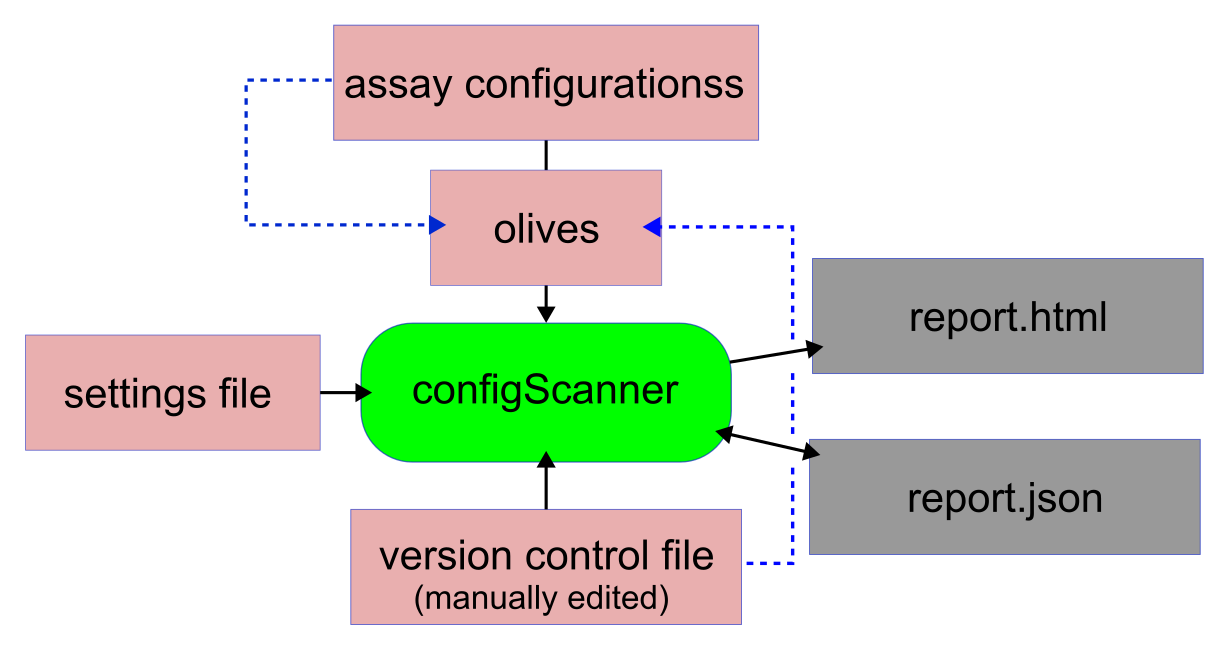
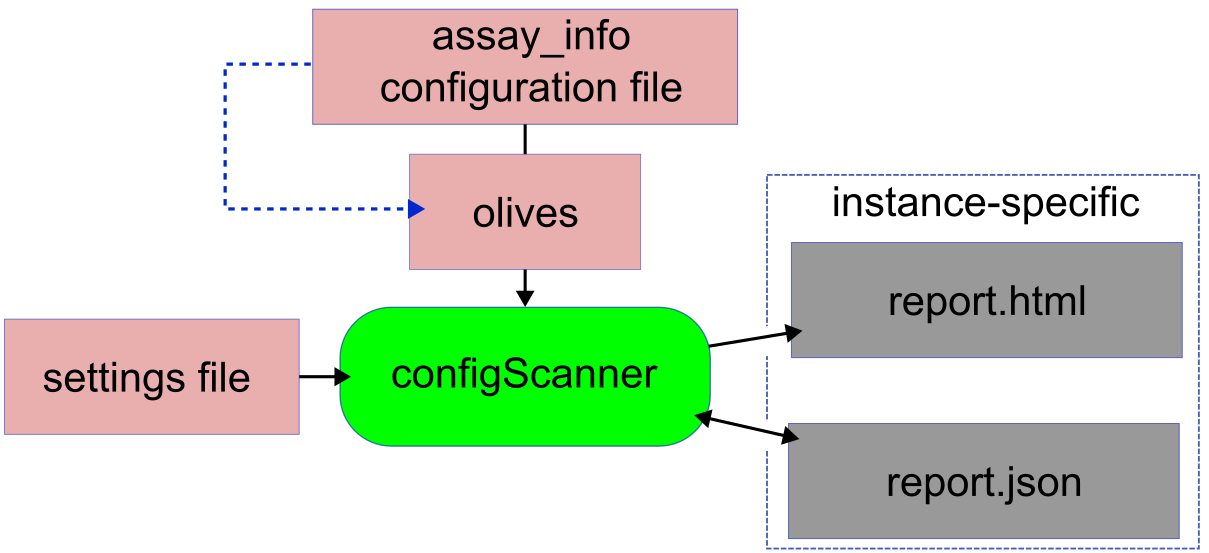
Updated documentation

diff --git a/README.md b/README.md
@@ -35,7 +35,6 @@ would run given a particular assay/version combination with the following benefi
 * Ability to see which unwanted workflows are enabled for an assay
 * Spotting problems with checks in olives
 * Data to use with downstream reporting/analysis
-* Mainainance of a version control file (see below)
 
 # Running the script
 
@@ -62,7 +61,7 @@ Settings file specify various configuration parameters and at this point has 4 s
 * instances   - this is to specify our shesmu instances (clinical and research) - there may be changes in a future
 * checks      - regex patterns for finding assay_info checks in olives
 
-Script will run collecting workflow names as they are used in olives, then it will proceed to analyze this information
+Script will run collecting workflow names (aliases) as they are used in olives, then it will proceed to analyze this information
 together with assay settings. After bringing all of these data together, the script will output .json and .html reports
 
 # Workflow version control
